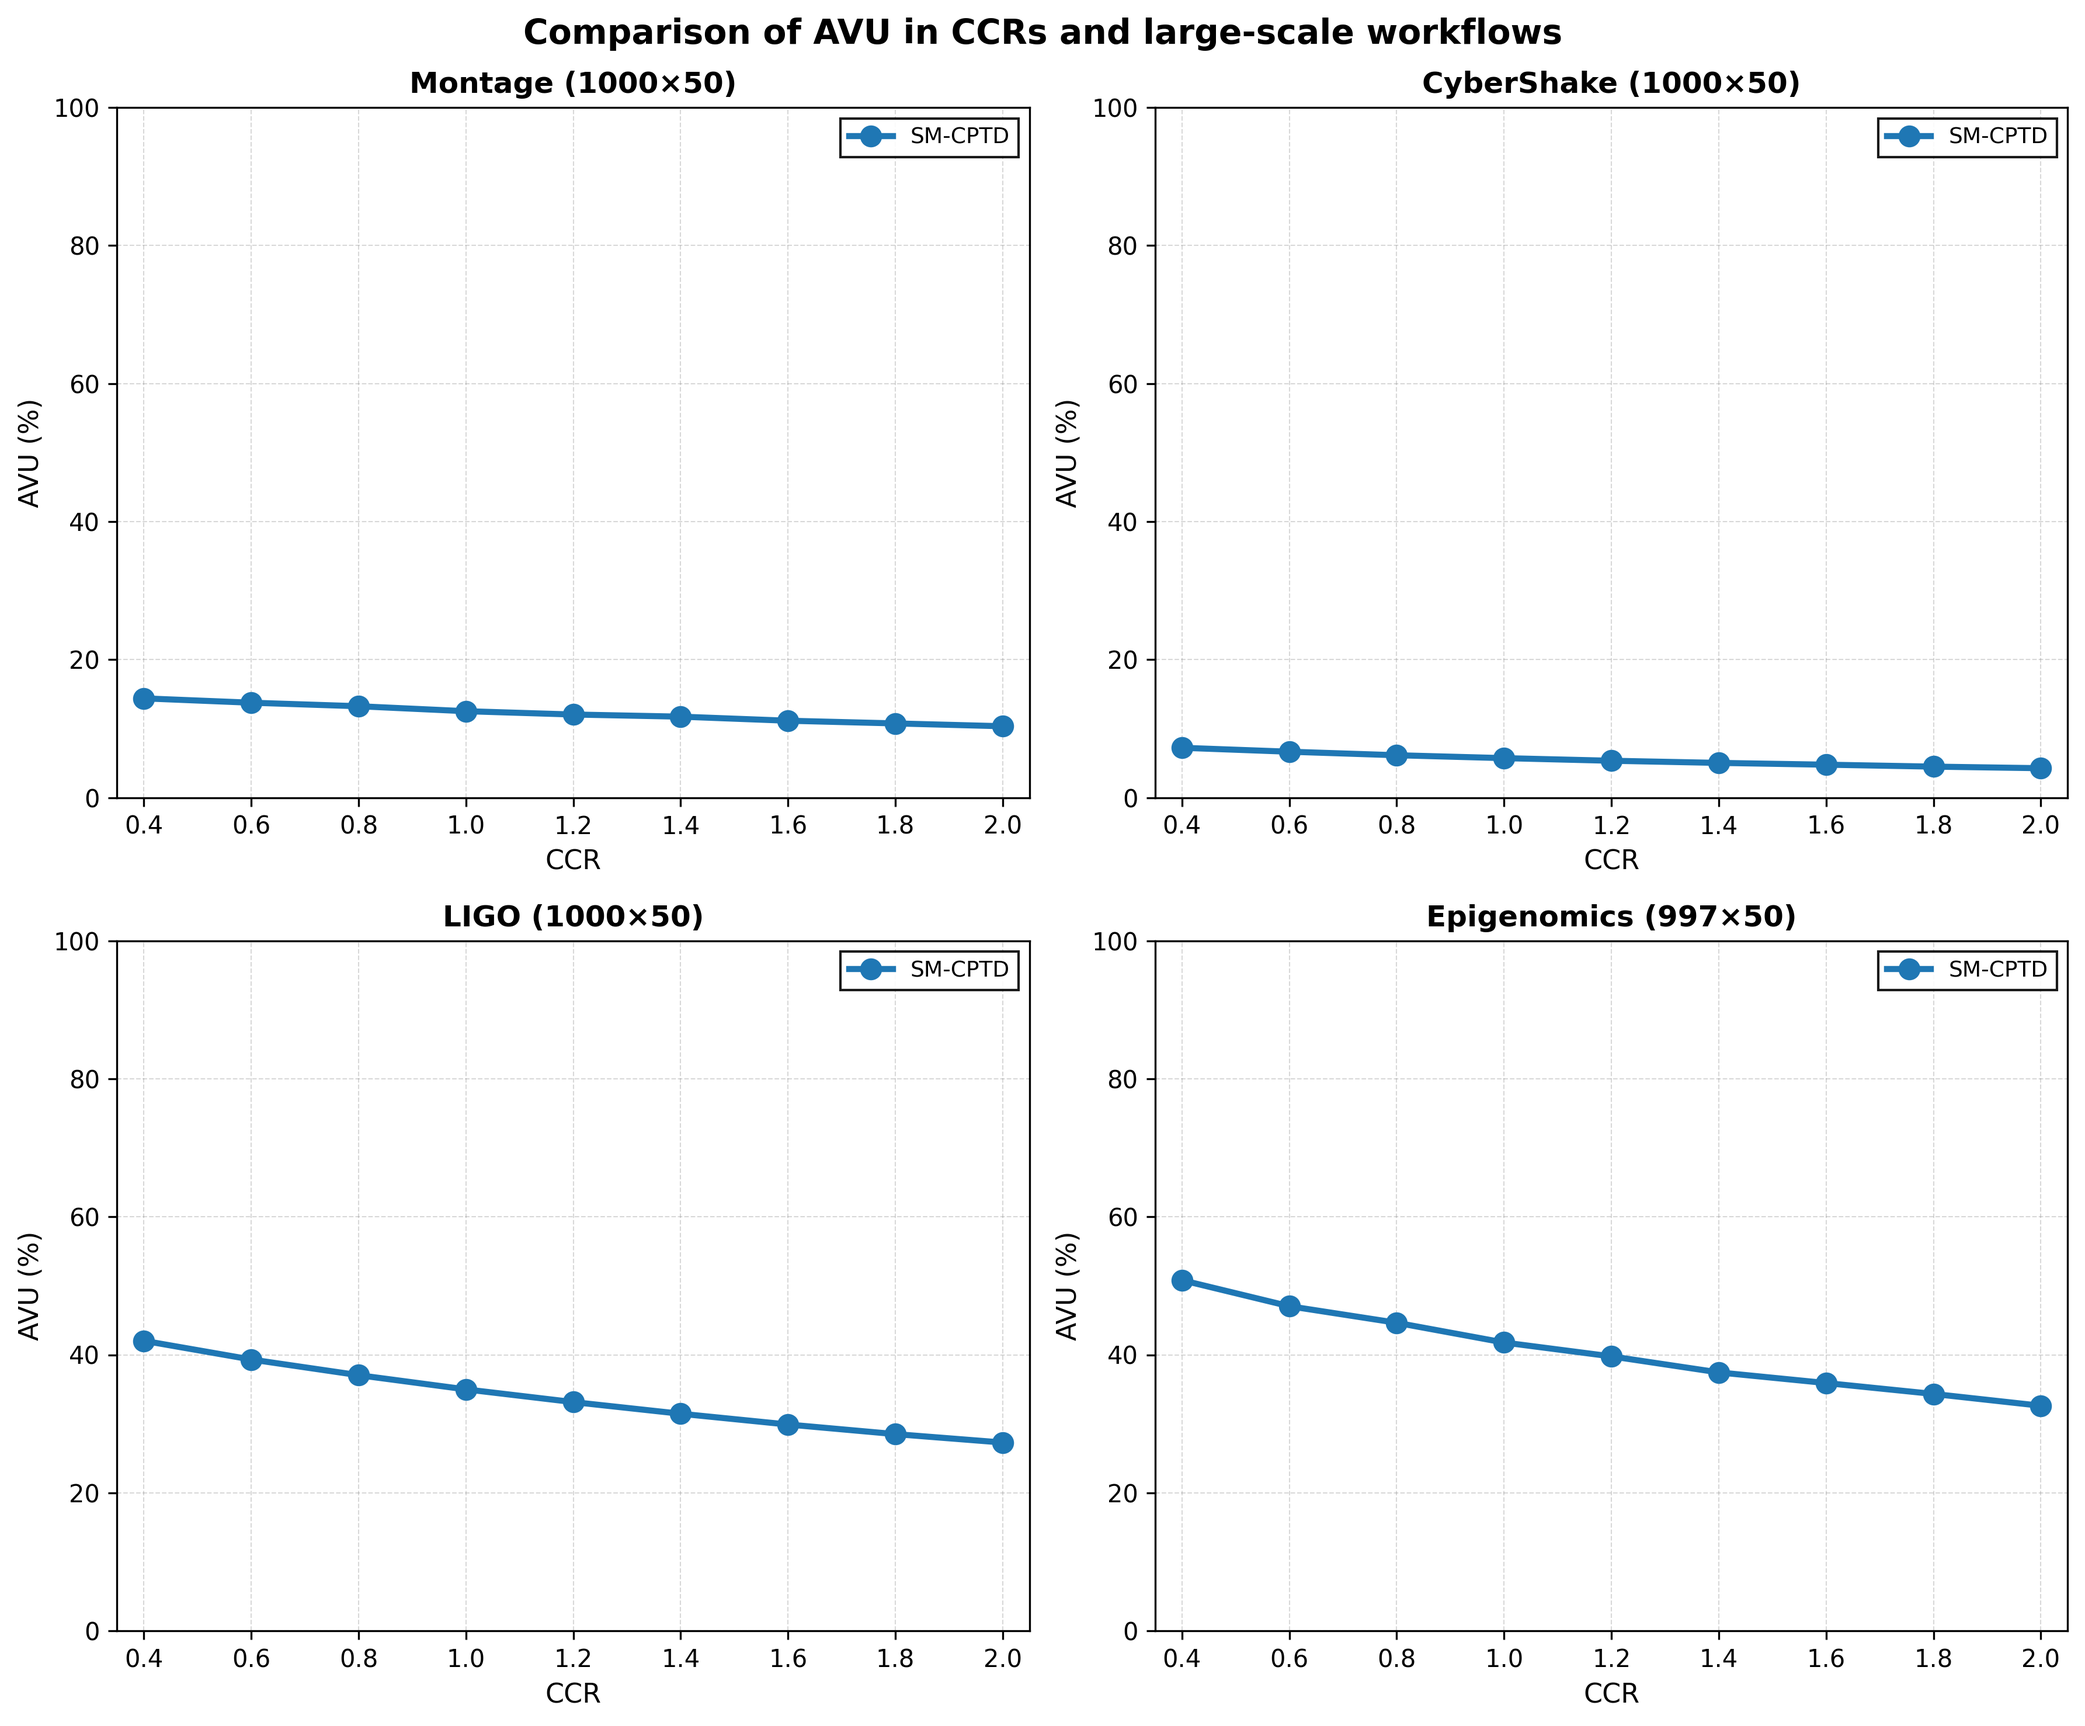
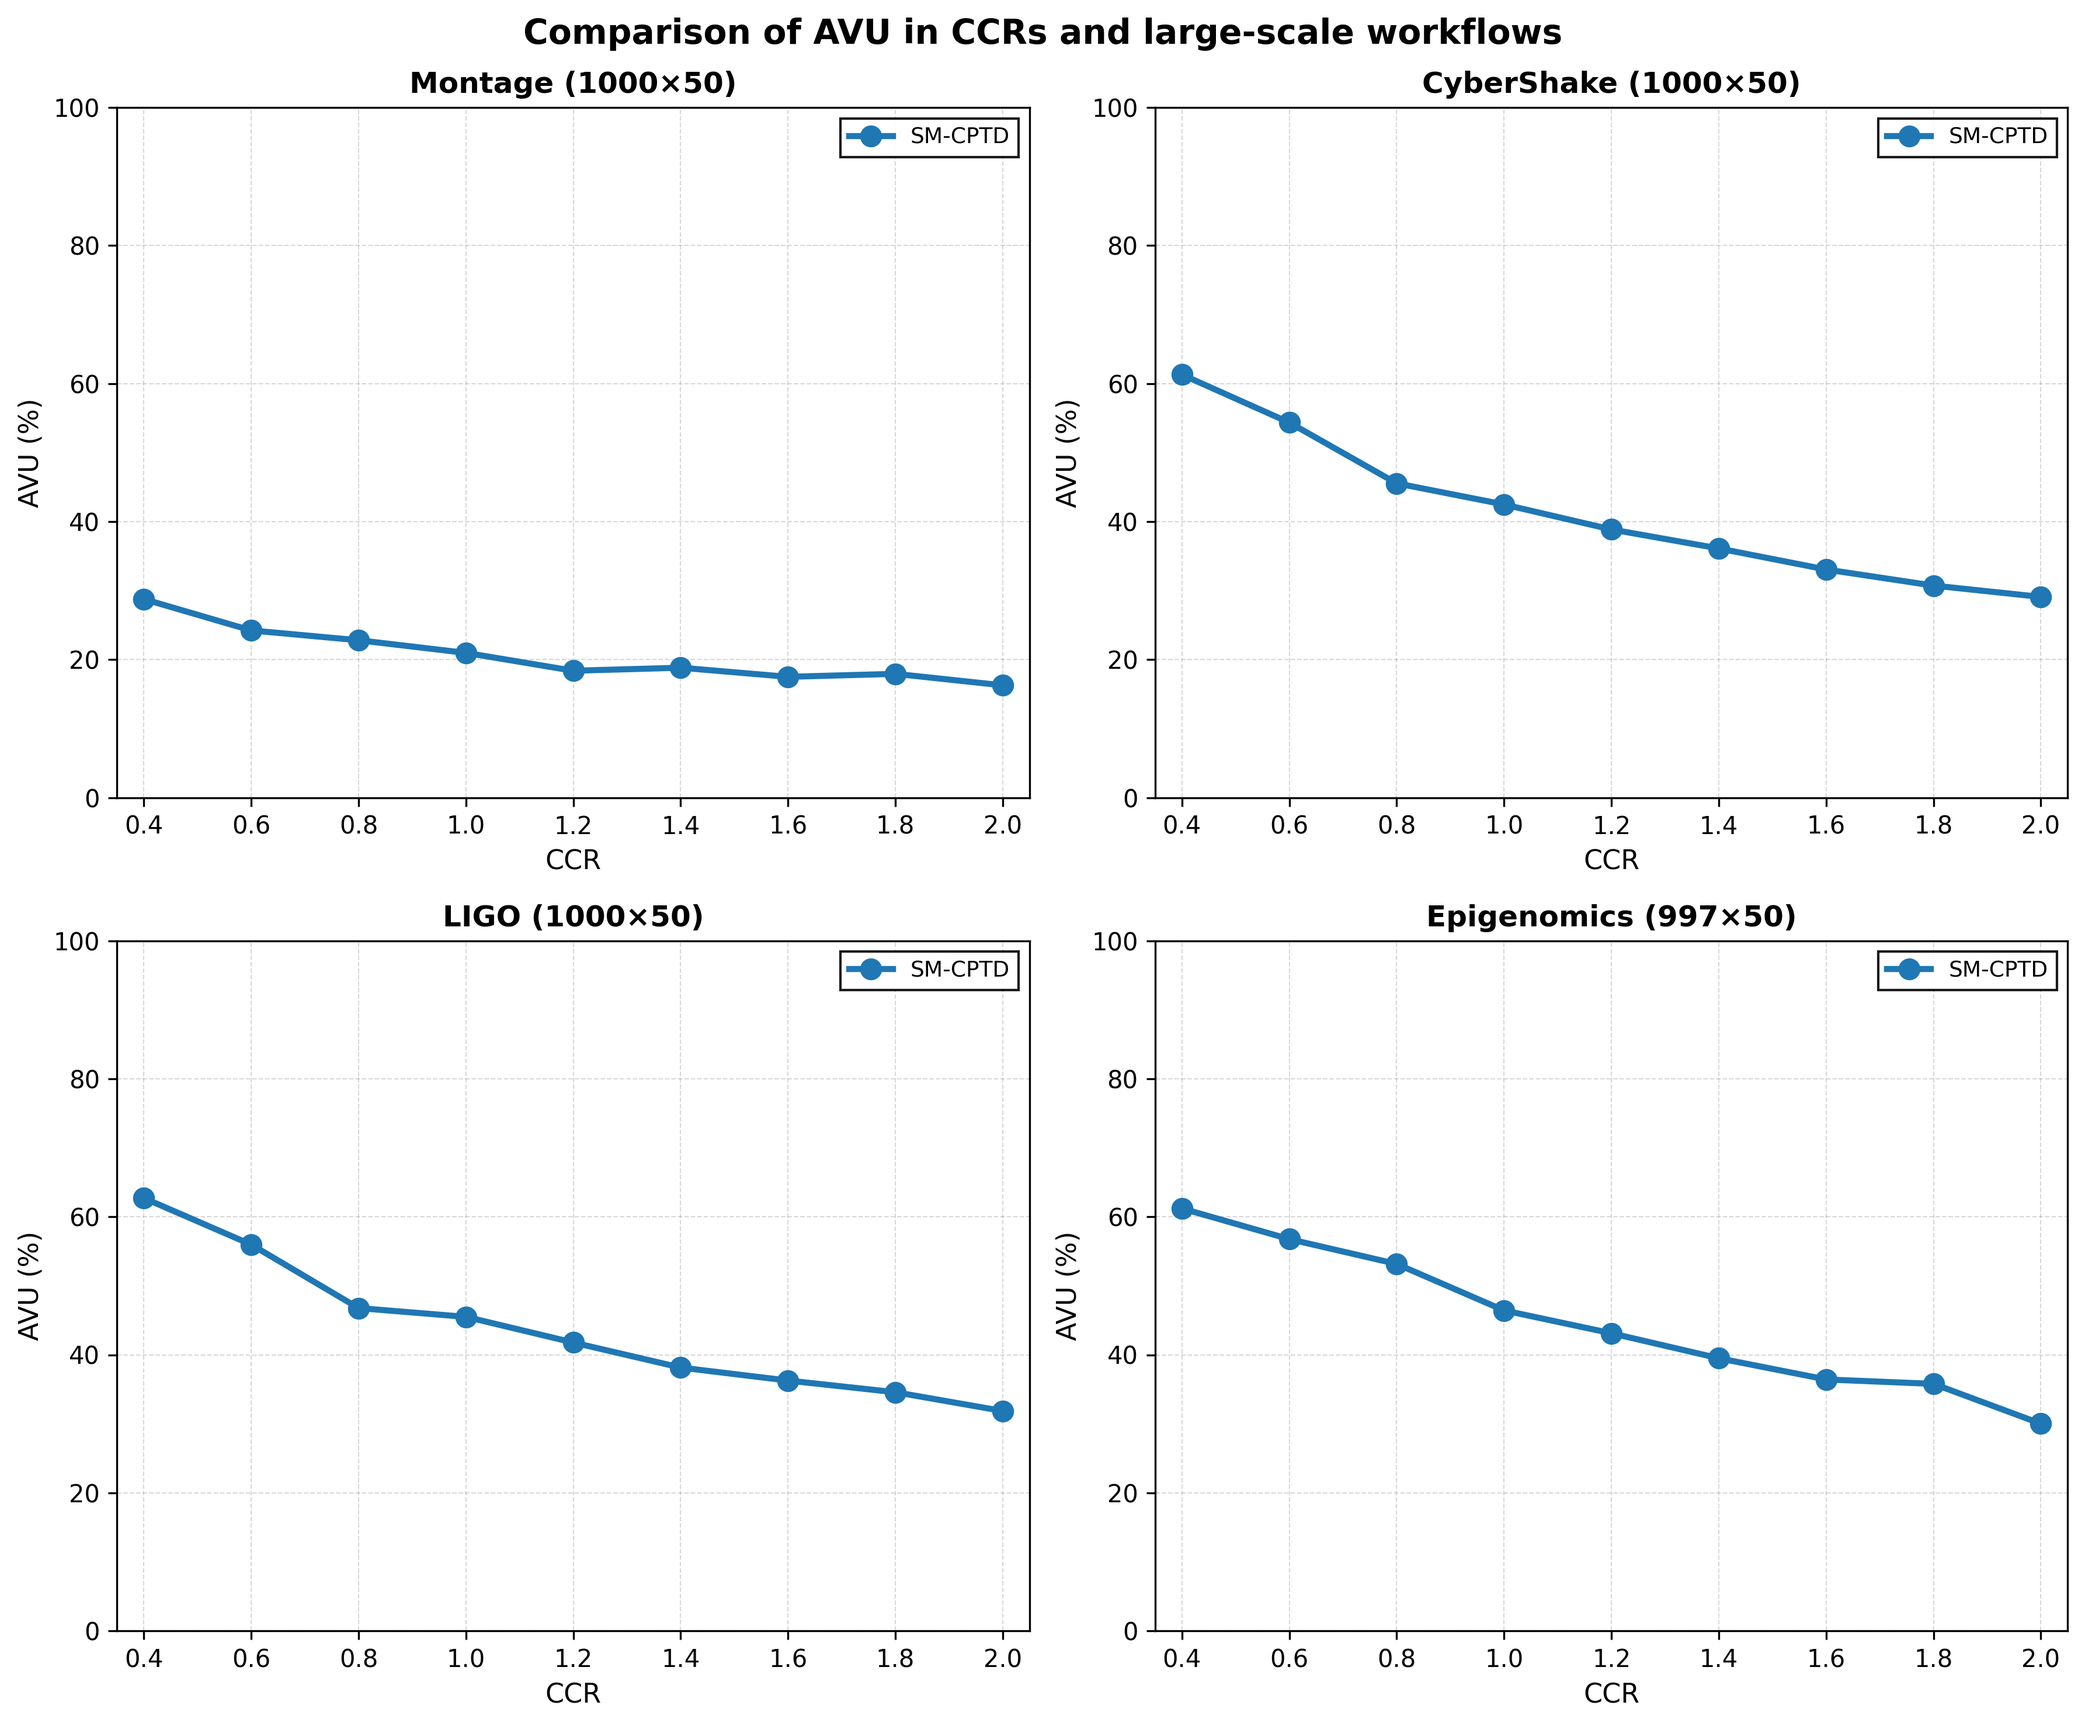
add uniform distribution

diff --git a/algorithms/PegasusXMLParser.java b/algorithms/PegasusXMLParser.java
@@ -138,13 +138,15 @@ public class PegasusXMLParser {
         new File(outputDir).mkdirs();
         
         // Scrivi task.csv
+        // Paper: task sizes uniformly distributed in [500, 700]
+        Random taskRand = new Random();
         try (PrintWriter writer = new PrintWriter(new FileWriter(outputDir + "/task.csv"))) {
             writer.println("id,size");
             for (Map.Entry<String, Job> entry : jobs.entrySet()) {
                 int id = jobIdToTaskId.get(entry.getKey());
-                Job job = entry.getValue();
-                // Usa runtime come size del task
-                writer.printf("%d,%.2f\n", id, job.runtime);
+                // Genera size secondo paper: [500, 700] uniforme
+                double size = 500.0 + taskRand.nextDouble() * 200.0;
+                writer.printf("%.0f,%.2f\n", (double)id, size);
             }
         }
         
@@ -181,19 +183,39 @@ public class PegasusXMLParser {
         }
         
         // Scrivi processing_capacity.csv
-        Random rand = new Random(42);
+        // Paper: VM processing capacities uniformly distributed in [20, 30]
+        Random vmRand = new Random();
         try (PrintWriter writer = new PrintWriter(new FileWriter(outputDir + "/processing_capacity.csv"))) {
             writer.println("vm_id,processing_capacity");
             for (int i = 0; i < numVMs; i++) {
-                double capacity = 10.0 + rand.nextDouble() * 10.0; // 10-20
+                double capacity = 20.0 + vmRand.nextDouble() * 10.0; // [20, 30]
                 writer.printf(Locale.US, "%d,%.2f\n", i, capacity);
             }
         }
         
+        // Scrivi bandwidth.csv
+        // Paper: bandwidth between VMs uniformly distributed in [20, 30]
+        Random bwRand = new Random();
+        try (PrintWriter writer = new PrintWriter(new FileWriter(outputDir + "/bandwidth.csv"))) {
+            writer.println("vm_i,vm_j,bandwidth");
+            for (int i = 0; i < numVMs; i++) {
+                for (int j = 0; j < numVMs; j++) {
+                    if (i == j) {
+                        // Bandwidth to self = 0 (no communication needed)
+                        writer.printf("%d,%d,0.00\n", i, j);
+                    } else {
+                        // [20, 30] uniforme
+                        double bandwidth = 20.0 + bwRand.nextDouble() * 10.0;
+                        writer.printf("%d,%d,%.2f\n", i, j, bandwidth);
+                    }
+                }
+            }
+        }
+        
         System.out.println("  ✓ Output saved to: " + outputDir);
-        System.out.println("    - Tasks: " + jobs.size());
+        System.out.println("    - Tasks: " + jobs.size() + " (sizes: [500, 700] uniform)");
         System.out.println("    - Edges: " + edgeSet.size());
-        System.out.println("    - VMs: " + numVMs);
+        System.out.println("    - VMs: " + numVMs + " (capacity: [20, 30] uniform, bandwidth: [20, 30] uniform)");
     }
     
     public static void main(String[] args) {

diff --git a/algorithms/SMGT.java b/algorithms/SMGT.java
@@ -134,6 +134,49 @@ public class SMGT {
     }
     
     /**
+     * Loads bandwidth data from bandwidth.csv
+     * Format: vm_i,vm_j,bandwidth
+     */
+    public void loadBandwidthFromCSV(String filename) throws IOException {
+        File bandwidthFile = new File(filename);
+        if (!bandwidthFile.exists()) {
+            System.out.println("⚠  Warning: bandwidth.csv not found, using default bandwidth");
+            return;
+        }
+        
+        BufferedReader reader = new BufferedReader(new FileReader(filename));
+        String line;
+        boolean firstLine = true;
+        
+        while ((line = reader.readLine()) != null) {
+            // Skip header and empty lines
+            if (firstLine) {
+                firstLine = false;
+                if (line.contains("vm_i") || line.contains("bandwidth")) continue;
+            }
+            if (line.startsWith("#") || line.trim().isEmpty()) {
+                continue;
+            }
+            
+            String[] parts = line.trim().split(",");
+            if (parts.length >= 3) {
+                int vmI = Integer.parseInt(parts[0].trim());
+                int vmJ = Integer.parseInt(parts[1].trim());
+                double bandwidth = Double.parseDouble(parts[2].trim());
+                
+                // Find VM and set bandwidth
+                for (VM vm : vms) {
+                    if (vm.getID() == vmI) {
+                        vm.setBandwidthToVM(vmJ, bandwidth);
+                        break;
+                    }
+                }
+            }
+        }
+        reader.close();
+    }
+    
+    /**
      * Loads task data and builds the DAG structure
      */
     public void loadTasksFromCSV(String dagFilename, String taskFilename) throws IOException {

diff --git a/algorithms/SMCPTD.java b/algorithms/SMCPTD.java
@@ -57,6 +57,14 @@ public class SMCPTD {
         smgt.loadTasksFromCSV(dagFilename, taskFilename);
         smgt.loadVMsFromCSV(vmFilename);
         
+        // Carica bandwidth se disponibile
+        String bandwidthFile = vmFilename.replace("processing_capacity.csv", "bandwidth.csv");
+        try {
+            smgt.loadBandwidthFromCSV(bandwidthFile);
+        } catch (IOException e) {
+            // Bandwidth file opzionale
+        }
+        
         System.out.println("✅ Dati caricati: " + smgt.getTasks().size() + " task, " + smgt.getVMs().size() + " VM");
     }
     

diff --git a/algorithms/ExperimentRunner.java b/algorithms/ExperimentRunner.java
@@ -306,6 +306,7 @@ public class ExperimentRunner {
             SMGT smgt = new SMGT();
             smgt.loadTasksFromCSV(workflowDir + "/dag.csv", workflowDir + "/task.csv");
             smgt.loadVMsFromCSV(workflowDir + "/processing_capacity.csv");
+            smgt.loadBandwidthFromCSV(workflowDir + "/bandwidth.csv");
             
             // 3. Calcola costi di comunicazione con CCR specificato
             Map<String, Double> commCosts = calculateCommunicationCosts(smgt, ccr);
